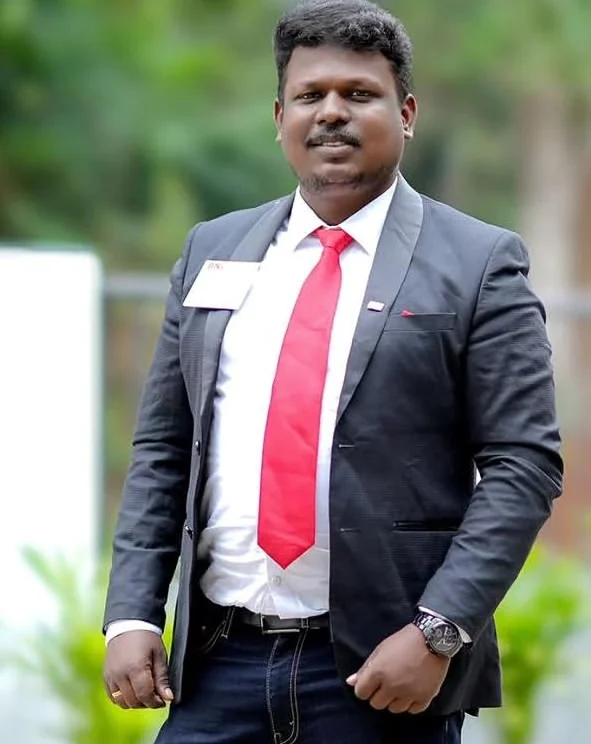
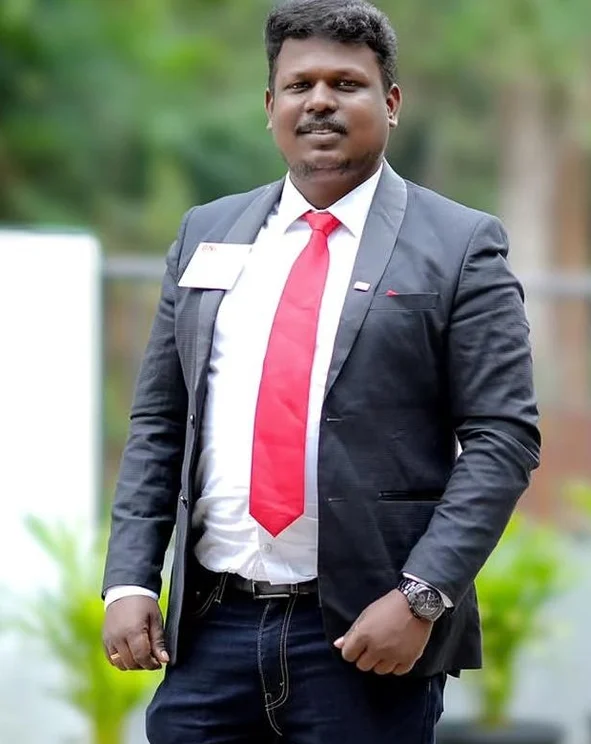
Add proprietor card, About paragraph and page layout updates
Brings in the latest local source changes (proprietor mini card on the
home page, extra About paragraph, Tamil strings, Privacy/Terms layout,
styles). Keeps the existing hero video and Windows prerender fix.

diff --git a/src/i18n.js b/src/i18n.js
@@ -27,8 +27,19 @@ export const STRINGS = {
     propIntro: 'The person who takes your first call is the same person standing at the venue when the last garland goes up',
     propP1: 'Raja leads VRK Decor end to end. He listens to what a family actually wants, walks the venue before anything is promised, and turns that conversation into a design the crew can build on the day',
     propP2: 'On setup day he is on the floor with the team, checking florals, lighting and finish, and he stays through the celebration so everything keeps standing exactly as planned. Working across Nagercoil\u2019s halls, churches and homes shapes what he recommends and what he avoids',
-    propChips: ['Hands-on at every event', 'From first call to final teardown', 'Rooted in the Nagercoil event scene'],
+    propChips: ['Hands-on at every event', 'From first call to final teardown', 'Rooted in the Nagercoil event scene', 'Personal attention to every enquiry', 'Same care for small and grand functions'],
     propFloat: 'Based in Nagercoil',
+    propP3: 'Every enquiry is handled personally rather than through a sales desk. Raja matches the design to your venue, your budget and the way your family celebrates, with the same care for a small housewarming as for a full wedding',
+    miniPropK: 'The person behind VRK',
+    miniPropP: 'Raja leads every VRK event end to end, from your first call to the final teardown, so the design you approve is exactly what you see on the day',
+    miniPropCta: 'Meet our proprietor',
+    upLabel: 'Reference photo (optional)',
+    upHint: 'JPG, PNG or WebP · up to 2MB per image',
+    upRemove: 'Remove photo',
+    upErrType: 'Please choose a JPG, PNG or WebP image',
+    upErrSize: 'That photo is over 2MB, please pick a smaller one',
+    upWaNote: 'WhatsApp opens with your message, attach this photo in the chat before sending',
+    waRefImg: 'I have a reference photo to share',
     owCount: 'real designs', owCountSub: 'Every image on this page is VRK\u2019s own work, photographed at real celebrations',
     talkK: 'Talk to us', talkH: 'Planning a date already',
     talkP: 'Share the date and venue and we will tell you what is possible',
@@ -122,8 +133,19 @@ export const STRINGS = {
     propIntro: 'உங்கள் முதல் அழைப்பை எடுப்பவரும், விழா நாளில் மண்டபத்தில் நின்று இறுதி மாலையை சரிபார்ப்பவரும் ஒருவரே',
     propP1: 'VRK Decor-ஐ முழுமையாக வழிநடத்துபவர் ராஜா. குடும்பம் உண்மையில் என்ன விரும்புகிறது என்பதைக் கேட்டு, வாக்குறுதிக்கு முன் மண்டபத்தைப் பார்வையிட்டு, அந்த உரையாடலை விழா நாளில் செயல்படுத்தக்கூடிய வடிவமைப்பாக மாற்றுகிறார்',
     propP2: 'அமைப்பு நாளில் குழுவுடன் களத்தில் இருந்து பூக்கள், விளக்குகள், இறுதி அழகு அனைத்தையும் சரிபார்க்கிறார் · விழா முடியும் வரை உடன் இருக்கிறார். நாகர்கோவிலின் மண்டபங்கள், தேவாலயங்கள், வீடுகள் என பல இடங்களில் பணியாற்றிய அனுபவமே அவரின் பரிந்துரைகளுக்கு அடிப்படை',
-    propChips: ['ஒவ்வொரு விழாவிலும் நேரடி பங்கு', 'முதல் அழைப்பு முதல் இறுதி வரை', 'நாகர்கோவில் விழா உலகில் வேரூன்றியவர்'],
+    propChips: ['ஒவ்வொரு விழாவிலும் நேரடி பங்கு', 'முதல் அழைப்பு முதல் இறுதி வரை', 'நாகர்கோவில் விழா உலகில் வேரூன்றியவர்', 'ஒவ்வொரு விசாரிப்பிலும் தனிப்பட்ட கவனம்', 'சிறிய பெரிய விழாக்களுக்கு ஒரே அக்கறை'],
     propFloat: 'நாகர்கோவிலை சேர்ந்தவர்',
+    propP3: 'ஒவ்வொரு விசாரிப்பும் நேரடியாக கவனிக்கப்படுகிறது. உங்கள் மண்டபம், பட்ஜெட் மற்றும் குடும்ப வழக்கங்களுக்கு ஏற்ப வடிவமைப்பை ராஜா பொருத்துகிறார், சிறிய புதுமனை விழாவிற்கும் முழு திருமணத்திற்கும் ஒரே கவனம்',
+    miniPropK: 'VRK-க்கு பின்னால் இருப்பவர்',
+    miniPropP: 'முதல் அழைப்பு முதல் இறுதி வரை ஒவ்வொரு VRK நிகழ்வையும் ராஜா நேரடியாக வழிநடத்துகிறார், நீங்கள் ஒப்புக்கொண்ட வடிவமைப்புதான் அன்று மேடையில் இருக்கும்',
+    miniPropCta: 'எங்கள் உரிமையாளரை சந்திக்க',
+    upLabel: 'மாதிரி புகைப்படம் (விரும்பினால்)',
+    upHint: 'JPG, PNG அல்லது WebP · ஒரு படத்திற்கு 2MB வரை',
+    upRemove: 'படத்தை நீக்க',
+    upErrType: 'JPG, PNG அல்லது WebP படத்தைத் தேர்வு செய்யவும்',
+    upErrSize: 'இந்த படம் 2MB-ஐ விட பெரியது, சிறிய படத்தைத் தேர்வு செய்யவும்',
+    upWaNote: 'WhatsApp திறந்ததும், அனுப்பும் முன் இந்த படத்தை சேட்டில் இணைக்கவும்',
+    waRefImg: 'மாதிரி புகைப்படம் ஒன்று உள்ளது',
     owCount: 'உண்மையான வடிவமைப்புகள்', owCountSub: 'இந்தப் பக்கத்தில் உள்ள ஒவ்வொரு படமும் VRK குழுவின் சொந்த வேலை',
     talkK: 'எங்களிடம் பேசுங்கள்', talkH: 'தேதி ஏற்கனவே முடிவு செய்துவிட்டீர்களா',
     talkP: 'தேதி மற்றும் மண்டபம் சொல்லுங்கள் · என்ன செய்ய முடியும் என்று சொல்கிறோம்',

diff --git a/src/components/Chrome.jsx b/src/components/Chrome.jsx
@@ -2,7 +2,7 @@ import { useEffect, useRef, useState, createContext, useContext } from 'react'
 import { Link, NavLink, useLocation } from 'react-router-dom'
 import { I } from './Icons.jsx'
 import { STRINGS, localePath, stripLang } from '../i18n.js'
-import { PHONE_DISPLAY, PHONE_TEL, EMAIL, ADDRESS, MAPS, IG, IG_HANDLE, FB, ZENVY, waLink, composeWa } from '../site.js'
+import { PHONE_DISPLAY, PHONE_TEL, EMAIL, ADDRESS, MAPS, IG, IG_HANDLE, FB, ZENVY, waLink, composeWa, composeWaText } from '../site.js'
 
 export const LangContext = createContext('en')
 export const useT = () => STRINGS[useContext(LangContext)]
@@ -125,11 +125,16 @@ export function Floaters() {
 }
 
 /* ---------- Quote modal ---------- */
+const IMG_TYPES = ['image/jpeg', 'image/png', 'image/webp']
+const IMG_MAX = 2 * 1024 * 1024
 export function QuoteModal({ state, close }) {
   const t = useT()
   const panelRef = useRef(null)
+  const [img, setImg] = useState(null)
+  const [imgErr, setImgErr] = useState('')
+  const clearImg = () => { setImg(prev => { if (prev) URL.revokeObjectURL(prev.url); return null }); setImgErr('') }
   useEffect(() => {
-    if (!state.open) return
+    if (!state.open) { clearImg(); return }
     const onKey = e => { if (e.key === 'Escape') close() }
     document.addEventListener('keydown', onKey)
     const first = panelRef.current && panelRef.current.querySelector('input')
@@ -137,10 +142,27 @@ export function QuoteModal({ state, close }) {
     return () => document.removeEventListener('keydown', onKey)
   }, [state.open])
   if (!state.open) return null
-  const submit = e => {
+  const onFile = e => {
+    const f = e.target.files && e.target.files[0]
+    e.target.value = ''
+    if (!f) return
+    const extOk = /\.(jpe?g|png|webp)$/i.test(f.name)
+    if (!IMG_TYPES.includes(f.type) || !extOk) { setImgErr(t.upErrType); return }
+    if (f.size > IMG_MAX) { setImgErr(t.upErrSize); return }
+    setImg(prev => { if (prev) URL.revokeObjectURL(prev.url); return { file: f, url: URL.createObjectURL(f) } })
+    setImgErr('')
+  }
+  const submit = async e => {
     e.preventDefault()
-    const f = Object.fromEntries(new FormData(e.target).entries())
-    window.open(composeWa(f, state.ref, t), '_blank', 'noopener')
+    let text = composeWaText(Object.fromEntries(new FormData(e.target).entries()), state.ref, t)
+    if (img) {
+      // where the browser can share a file (most phones), hand WhatsApp the photo directly
+      if (navigator.canShare && navigator.canShare({ files: [img.file] })) {
+        try { await navigator.share({ files: [img.file], text }); return } catch (err) { if (err && err.name === 'AbortError') return }
+      }
+      text += `\n${t.waRefImg}`
+    }
+    window.open(waLink(text), '_blank', 'noopener')
   }
   return (
     <div className="modal is-open" role="dialog" aria-modal="true" aria-labelledby="quote-title">
@@ -158,6 +180,28 @@ export function QuoteModal({ state, close }) {
           <div><label htmlFor="qm-date">{t.fDate}</label><input id="qm-date" name="date" type="date" /></div>
           <div className="full"><label htmlFor="qm-loc">{t.fLocation}</label><input id="qm-loc" name="location" placeholder={t.fLocPH} /></div>
           <div className="full"><label htmlFor="qm-notes">{t.fNotes}</label><textarea id="qm-notes" name="notes" placeholder={t.fNotesPH}></textarea></div>
+          {!state.ref && (
+            <div className="full upload-field">
+              <label htmlFor="qm-photo">{t.upLabel}</label>
+              {!img ? (
+                <>
+                  <input id="qm-photo" type="file" accept="image/jpeg,image/png,image/webp" onChange={onFile} />
+                  <p className="form-note" style={{ marginTop: '.35rem' }}>{t.upHint}</p>
+                </>
+              ) : (
+                <div className="upload-preview">
+                  <img src={img.url} alt="" />
+                  <div>
+                    <b>{img.file.name}</b>
+                    <span>{img.file.size >= 1048576 ? `${(img.file.size / 1048576).toFixed(2)} MB` : `${Math.max(1, Math.round(img.file.size / 1024))} KB`}</span>
+                    <button type="button" className="upload-remove" onClick={clearImg}>{I.x} {t.upRemove}</button>
+                  </div>
+                </div>
+              )}
+              {imgErr && <p className="upload-err" role="alert">{imgErr}</p>}
+              {img && <p className="form-note" style={{ marginTop: '.4rem' }}>{t.upWaNote}</p>}
+            </div>
+          )}
           <div className="full"><button className="btn btn-wa" type="submit" style={{ width: '100%' }}>{I.wa} {t.continueWa}</button></div>
           <p className="form-note full">{t.formNote}</p>
         </form>

diff --git a/src/pages/index.jsx b/src/pages/index.jsx
@@ -99,6 +99,21 @@ export function Home() {
 
       <section className="section section-tight" style={{ paddingTop: 0 }}>
         <div className="wrap">
+          <div className="prop-mini glass reveal">
+            <img src="/assets/img/proprietor-chest.webp" alt={`${PROPRIETOR}, proprietor of VRK Decor`} width="360" height="461" loading="lazy" decoding="async" />
+            <div className="prop-mini-body">
+              <p className="kicker">{t.miniPropK}</p>
+              <h2>{PROPRIETOR}</h2>
+              <span className="prop-badge">{t.propTitle}</span>
+              <p>{t.miniPropP}</p>
+              <Link className="btn btn-ghost" to={p('/about')}>{t.miniPropCta} {I.arrow}</Link>
+            </div>
+          </div>
+        </div>
+      </section>
+
+      <section className="section section-tight" style={{ paddingTop: 0 }}>
+        <div className="wrap">
           <div className="section-head center"><p className="kicker">{t.tK}</p><h2>{t.tH}</h2></div>
           <Testimonials />
         </div>
@@ -233,6 +248,7 @@ export function About() {
             <p className="prop-intro">{t.propIntro}</p>
             <p>{t.propP1}</p>
             <p>{t.propP2}</p>
+            <p>{t.propP3}</p>
             <blockquote className="pull" lang="en">{t.propQuote}<footer>{PROPRIETOR} &middot; Proprietor, VRK Decor</footer></blockquote>
             <div className="prop-meta">
               {t.propChips.map(c => <span className="chip" key={c}>{I.check} {c}</span>)}
@@ -351,7 +367,7 @@ export function Privacy() {
     <main id="main">
       <PageHero crumb="Privacy Policy" kicker="VRK Decor" title="Privacy Policy" lead="How this website handles the details you share with us" />
       <section className="section" style={{ paddingTop: 0 }}>
-        <div className="wrap prose">
+        <div className="wrap"><div className="prose">
           <p>VRK Decor (301 M.S Road, Vettunimadam, Nagercoil, Tamil Nadu 629003) respects your privacy. This website is a brochure site for our event decoration business. It runs no analytics trackers, sets no marketing cookies and stores no form submissions on any server</p>
           <h2>Information you share with us</h2>
           <p>The quote and contact forms on this site compose a WhatsApp message on your own device. The name, phone number, event details and requirements you type are sent to us only when you choose to send that message in WhatsApp. If you call, email or message us directly, those conversations are handled under the terms of your phone, email or WhatsApp provider</p>
@@ -365,7 +381,7 @@ export function Privacy() {
           <p>You may contact us at any time to ask what details of yours we hold from past enquiries or bookings, to correct them, or to ask us to delete them where we have no ongoing need to keep them</p>
           <h2>Contact</h2>
           <p>For any privacy question, write to <a href="mailto:vrk.groups@gmail.com">vrk.groups@gmail.com</a> or call +91 99940 72435</p>
-        </div>
+        </div></div>
       </section>
     </main>
   )
@@ -376,7 +392,7 @@ export function Terms() {
     <main id="main">
       <PageHero crumb="Terms" kicker="VRK Decor" title="Terms of Use" lead="The terms that apply to this website and to bookings made with VRK Decor" />
       <section className="section" style={{ paddingTop: 0 }}>
-        <div className="wrap prose">
+        <div className="wrap"><div className="prose">
           <h2>About this website</h2>
           <p>This website presents the services and past work of VRK Decor, an event decoration business based in Nagercoil, Tamil Nadu. Using the site or sending an enquiry does not by itself create a booking</p>
           <h2>Quotations</h2>
@@ -395,7 +411,7 @@ export function Terms() {
           <p>These terms are governed by the laws of India, and any dispute is subject to the courts at Nagercoil, Tamil Nadu</p>
           <h2>Contact</h2>
           <p>Questions about these terms can be sent to <a href="mailto:vrk.groups@gmail.com">vrk.groups@gmail.com</a> or +91 99940 72435</p>
-        </div>
+        </div></div>
       </section>
     </main>
   )

diff --git a/public/assets/css/main.css b/public/assets/css/main.css
@@ -728,3 +728,48 @@ html[lang="ta"] .prop-badge{letter-spacing:.08em}
 .hero{min-height:calc(100svh - 64px)}
 @media (max-width:980px){.hero{min-height:calc(100svh - 64px)}}
 @media (max-height:620px){.hero{min-height:auto}}
+
+/* ================= V5 REFINEMENT PASS ================= */
+
+/* --- hero: keep the band inside the fold on SHORT desktop screens (720p/768p laptops) --- */
+@media (min-width:981px) and (max-height:800px){
+  .hero-inner{padding:5.6rem 0 2.2rem}
+  .hero h1{font-size:clamp(1.95rem,3.5vw,2.8rem)}
+  .hero-sub{font-size:1rem;margin-bottom:1rem}
+  .hero-eyebrow{margin-bottom:.85rem;padding:.45rem .95rem}
+  .hero-ctas{margin-bottom:1rem}
+  .hero-meta{font-size:.8rem}
+}
+/* the calc rule must win even on short screens; only give up below 500px height */
+@media (max-height:620px){.hero{min-height:calc(100svh - 64px)}}
+@media (max-height:500px){.hero{min-height:auto}}
+
+/* --- home proprietor intro: compact trust band --- */
+.prop-mini{display:grid;grid-template-columns:minmax(0,230px) minmax(0,1fr);gap:clamp(1.4rem,3vw,2.6rem);align-items:center;padding:clamp(1.3rem,2.6vw,2rem);border-radius:var(--r-l)}
+.prop-mini img{width:100%;height:auto;aspect-ratio:3/3.4;object-fit:cover;object-position:top;border-radius:18px;border:1px solid rgba(142,200,64,.3);box-shadow:var(--shadow-m)}
+.prop-mini-body .kicker{margin-bottom:.4rem}
+.prop-mini-body h2{font-size:clamp(1.5rem,2.4vw,2rem);margin:0 0 .45rem}
+.prop-mini-body .prop-badge{margin-bottom:.75rem}
+.prop-mini-body p:not(.kicker){font-size:.95rem;max-width:62ch;margin:0 0 1.1rem}
+@media (max-width:700px){
+  .prop-mini{grid-template-columns:1fr}
+  .prop-mini img{max-width:230px}
+}
+
+/* --- quote modal: reference photo upload --- */
+.upload-field label{display:block}
+.form-grid input[type="file"]{width:100%;padding:.6rem;border:1.5px dashed var(--line);border-radius:12px;background:var(--surface);font-size:.84rem;color:var(--ink-soft);cursor:pointer}
+.form-grid input[type="file"]::file-selector-button{border:0;border-radius:999px;padding:.5rem 1rem;margin-right:.7rem;font:inherit;font-size:.82rem;font-weight:600;background:rgba(142,200,64,.18);color:var(--green-deep);cursor:pointer}
+.upload-preview{display:flex;gap:.85rem;align-items:center;padding:.65rem;border:1px solid var(--line);border-radius:14px;background:var(--surface)}
+.upload-preview img{width:70px;height:70px;object-fit:cover;border-radius:10px;flex:none}
+.upload-preview b{display:block;font-size:.84rem;max-width:26ch;overflow:hidden;text-overflow:ellipsis;white-space:nowrap}
+.upload-preview span{display:block;font-size:.76rem;color:var(--ink-soft);margin:.1rem 0 .35rem}
+.upload-remove{display:inline-flex;align-items:center;gap:.3rem;border:0;background:none;padding:0;font:inherit;font-size:.8rem;font-weight:600;color:var(--green-deep);cursor:pointer}
+.upload-remove svg{width:13px;height:13px}
+.upload-err{color:#A84A22;font-size:.82rem;margin:.45rem 0 0}
+.prop-mini{max-width:1000px;margin-inline:auto}
+
+/* home proprietor intro: small passport-size photo */
+.prop-mini{grid-template-columns:minmax(0,150px) minmax(0,1fr)}
+.prop-mini img{aspect-ratio:360/461;object-position:center top;border-radius:14px}
+@media (max-width:700px){.prop-mini img{max-width:150px}}

diff --git a/src/site.js b/src/site.js
@@ -14,10 +14,14 @@ export const ZENVY = 'https://zenvytech.vercel.app/'
 
 export const waLink = (msg) => `https://wa.me/${WA}?text=${encodeURIComponent(msg)}`
 
-export function composeWa(fields, ref, labels) {
+export function composeWaText(fields, ref, labels) {
   const lines = [labels.waIntro]
   if (ref) lines.push(`${labels.waRef}: ${ref}`)
   const map = [['name', labels.fName], ['phone', labels.fPhone], ['event', labels.fEvent], ['date', labels.fDate], ['location', labels.fLocation], ['notes', labels.fNotes]]
   map.forEach(([k, label]) => { if (fields[k]) lines.push(`${label}: ${fields[k]}`) })
-  return waLink(lines.join('\n'))
+  return lines.join('\n')
+}
+
+export function composeWa(fields, ref, labels) {
+  return waLink(composeWaText(fields, ref, labels))
 }
